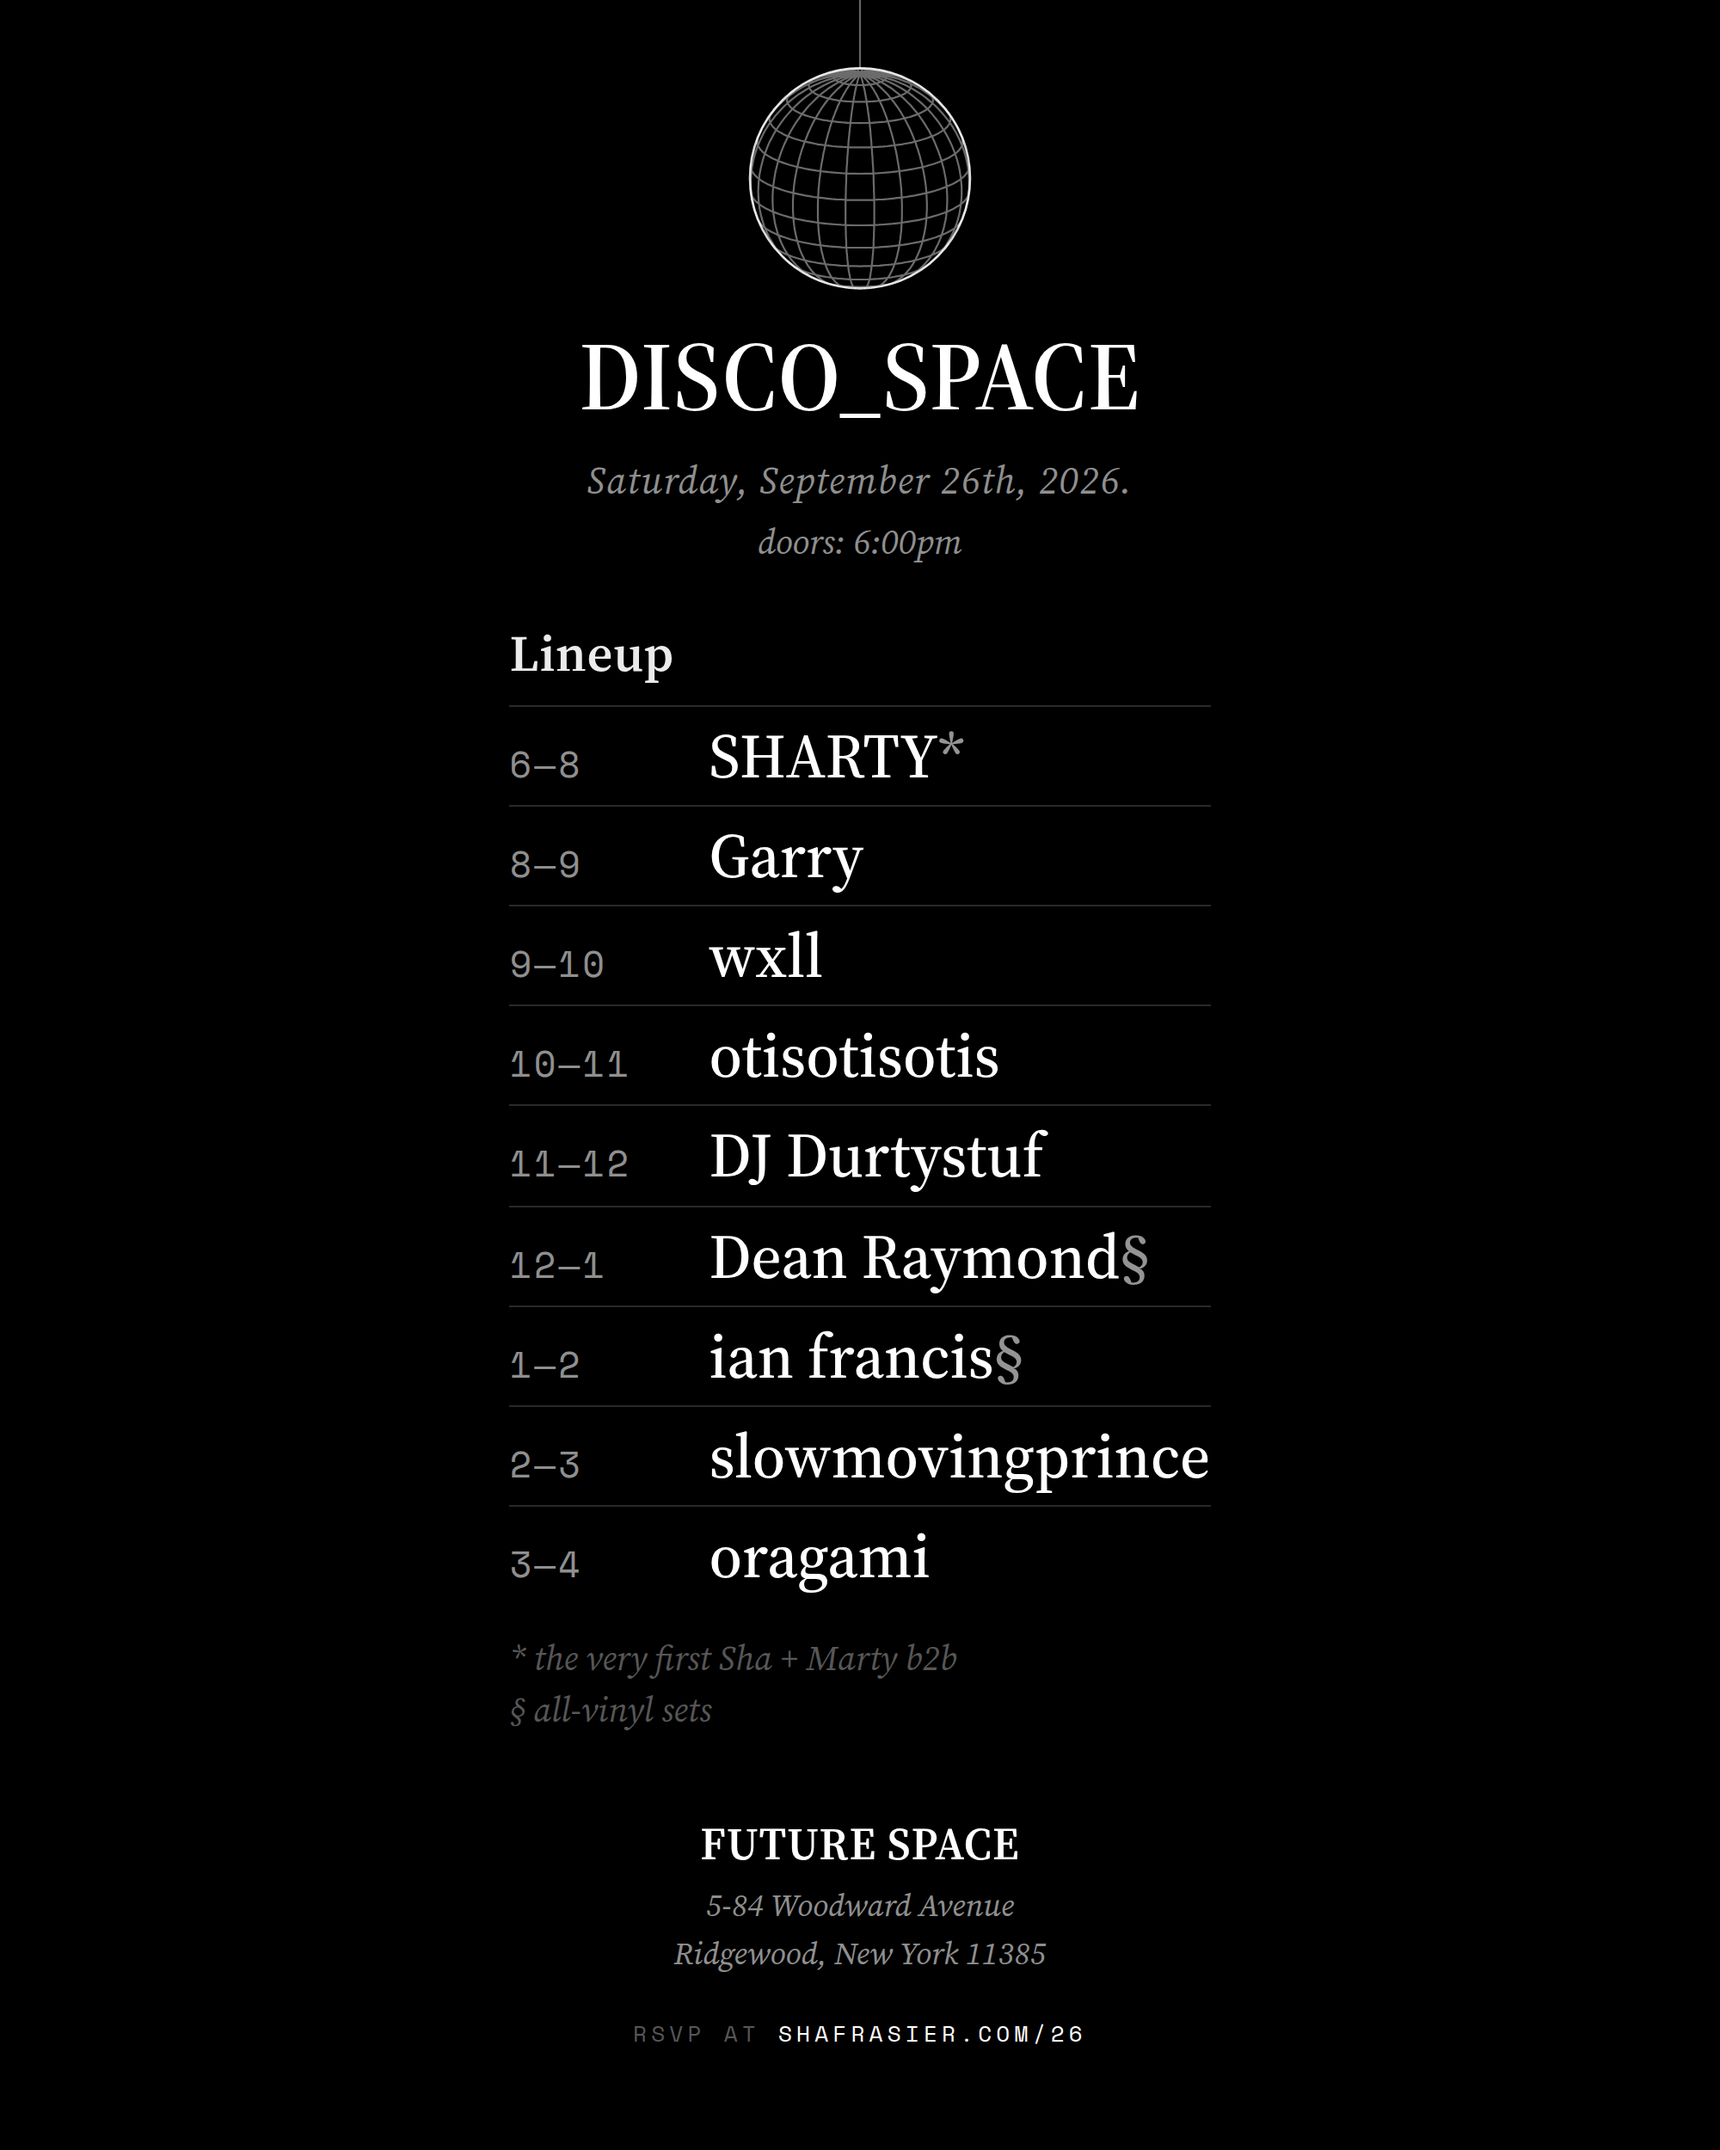
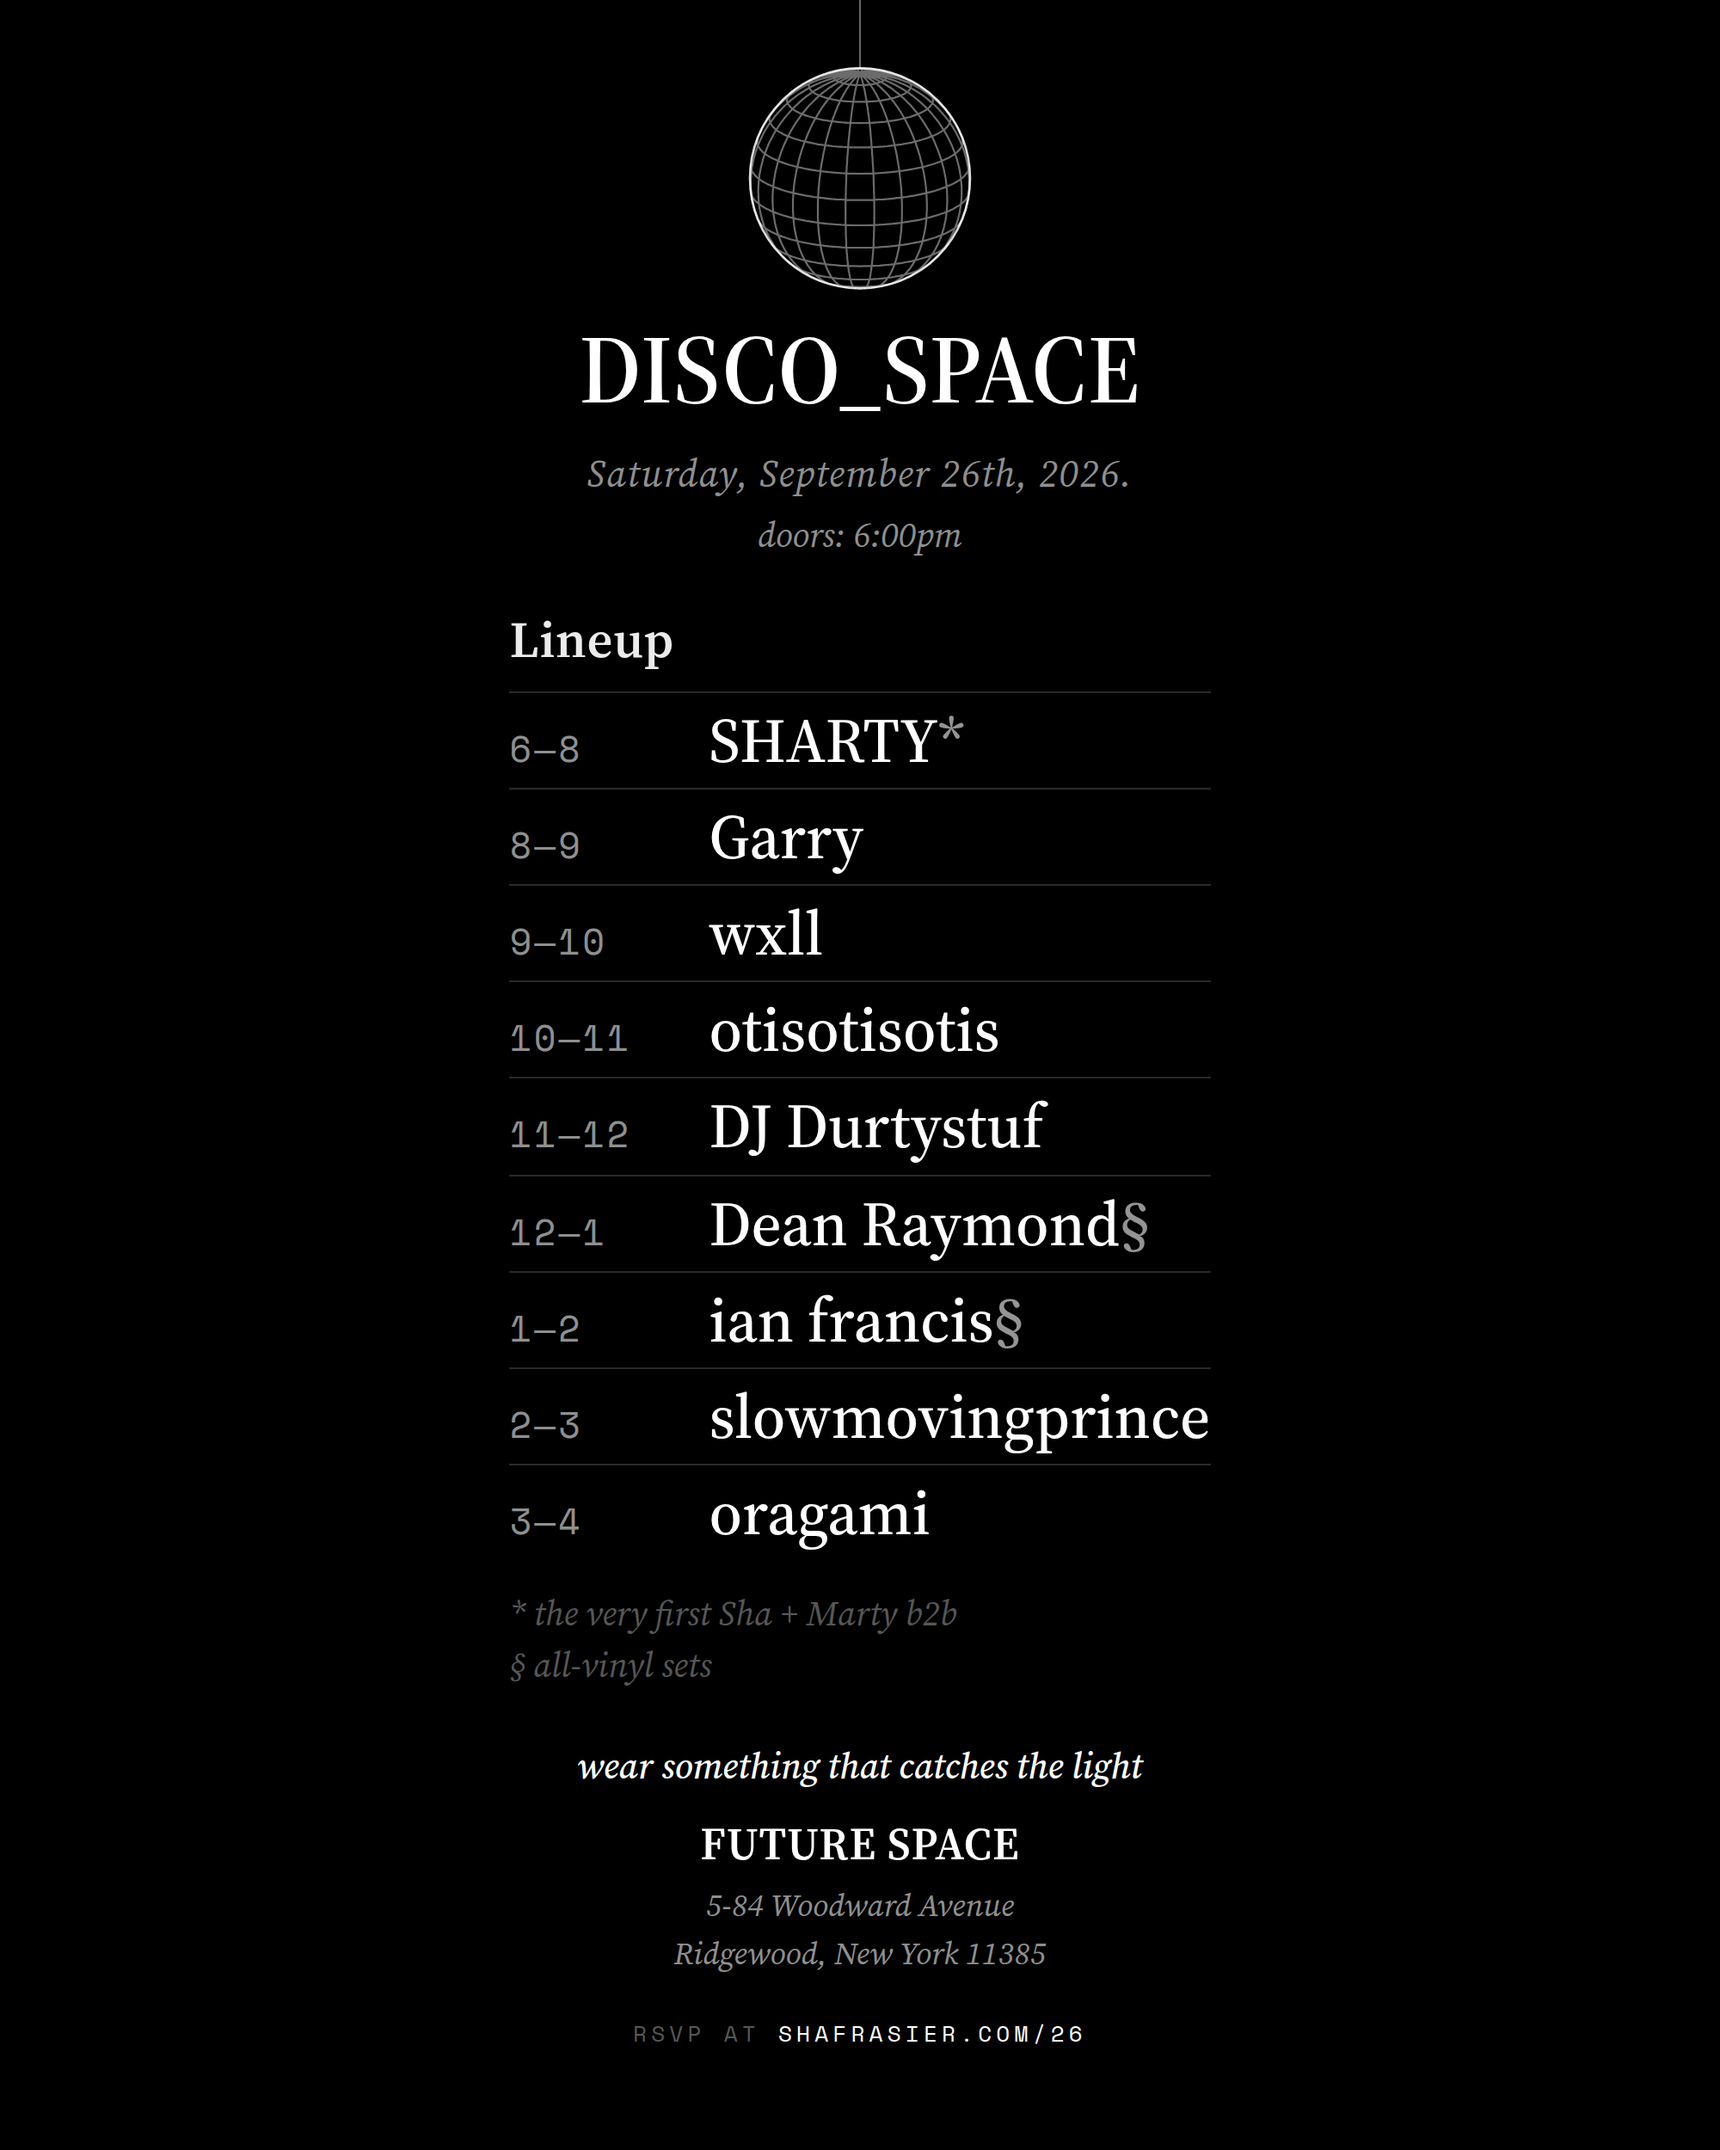
Poster: the closing line comes down onto the sheet
"wear something that catches the light" sits above FUTURE SPACE in white
italics, the weight and colour the page gives it — the one line on the
poster addressed to the reader rather than describing the night.

It cost 29px the sheet did not have. Paid out of spacing rather than type:
row padding down a point, and the head, lineup, dress and foot margins each
give back a few. Every size holds, the ball holds at r=64, and the lineup
still fits 4:5 with room to spare.

Claude-Session: https://claude.ai/code/session_012u9DGjgcEhyf5RTtz1EsMz

diff --git a/26/poster.html b/26/poster.html
@@ -63,7 +63,7 @@ body{margin:0;background:#000;color:var(--white);font-family:var(--serif);
 .ball{width:100%;height:auto;display:block;flex:0 0 auto}
 
 /* ── the head: one title line, then date, then doors ── */
-.head{margin:18px 90px 0;text-align:center}
+.head{margin:14px 90px 0;text-align:center}
 .mark{margin:0;font-size:56px;font-weight:600;letter-spacing:.01em;line-height:1.1}
 .date{margin:14px 0 0;font-size:22px;font-style:italic;letter-spacing:.03em;color:var(--dim)}
 .doors{margin:7px 0 0;font-size:20px;font-style:italic;color:var(--dim)}
@@ -72,10 +72,10 @@ body{margin:0;background:#000;color:var(--white);font-family:var(--serif);
    The block is centred on the page but set flush inside it: width:max-content
    makes it hug its own widest row, so the auto margins centre the whole table
    while every time and every name stays left-aligned to its own column. */
-.lineup{margin:30px auto 0;width:max-content;max-width:calc(100% - 140px);text-align:left}
+.lineup{margin:26px auto 0;width:max-content;max-width:calc(100% - 140px);text-align:left}
 /* labels the table, flush with its left edge — the page's own kicker, scaled */
 .kicker{margin:0 0 10px;font-size:30px;font-weight:600;letter-spacing:.01em;color:rgba(255,255,255,.92)}
-.slot{display:flex;align-items:baseline;gap:24px;padding:7px 0;border-top:1px solid var(--hair)}
+.slot{display:flex;align-items:baseline;gap:24px;padding:6px 0;border-top:1px solid var(--hair)}
 .slot:last-of-type{border-bottom:1px solid var(--hair)}
 .slot .t{flex:0 0 92px;font-family:var(--label);font-size:21px;letter-spacing:.06em;
   color:var(--dim);white-space:nowrap;font-variant-numeric:tabular-nums}
@@ -86,7 +86,9 @@ body{margin:0;background:#000;color:var(--white);font-family:var(--serif);
 .notes p{margin:0;font-size:20px;font-style:italic;color:var(--faint);line-height:1.5}
 
 /* ── the foot: where, and how to get in ── */
-.foot{margin:auto 112px 0;padding-top:26px;text-align:center}
+.foot{margin:auto 112px 0;padding-top:20px;text-align:center}
+/* the page's own closing line, in the page's own words and weight */
+.dress{margin:0 0 18px;font-size:21px;font-style:italic;font-weight:500;color:var(--white)}
 .venue{margin:0 0 9px;font-size:26px;font-weight:600;letter-spacing:.02em;line-height:1}
 .addr{margin:0;font-size:18px;font-style:italic;color:var(--dim);line-height:1.55}
 .rsvp{margin:22px 0 0;font-family:var(--label);font-size:13px;letter-spacing:.2em;
@@ -130,6 +132,7 @@ body{margin:0;background:#000;color:var(--white);font-family:var(--serif);
   </div>
 
   <div class="foot">
+    <p class="dress">wear something that catches the light</p>
     <p class="venue">FUTURE SPACE</p>
     <p class="addr">5-84 Woodward Avenue<br>Ridgewood, New York 11385</p>
     <p class="rsvp">RSVP at <b>shafrasier.com/26</b></p>
